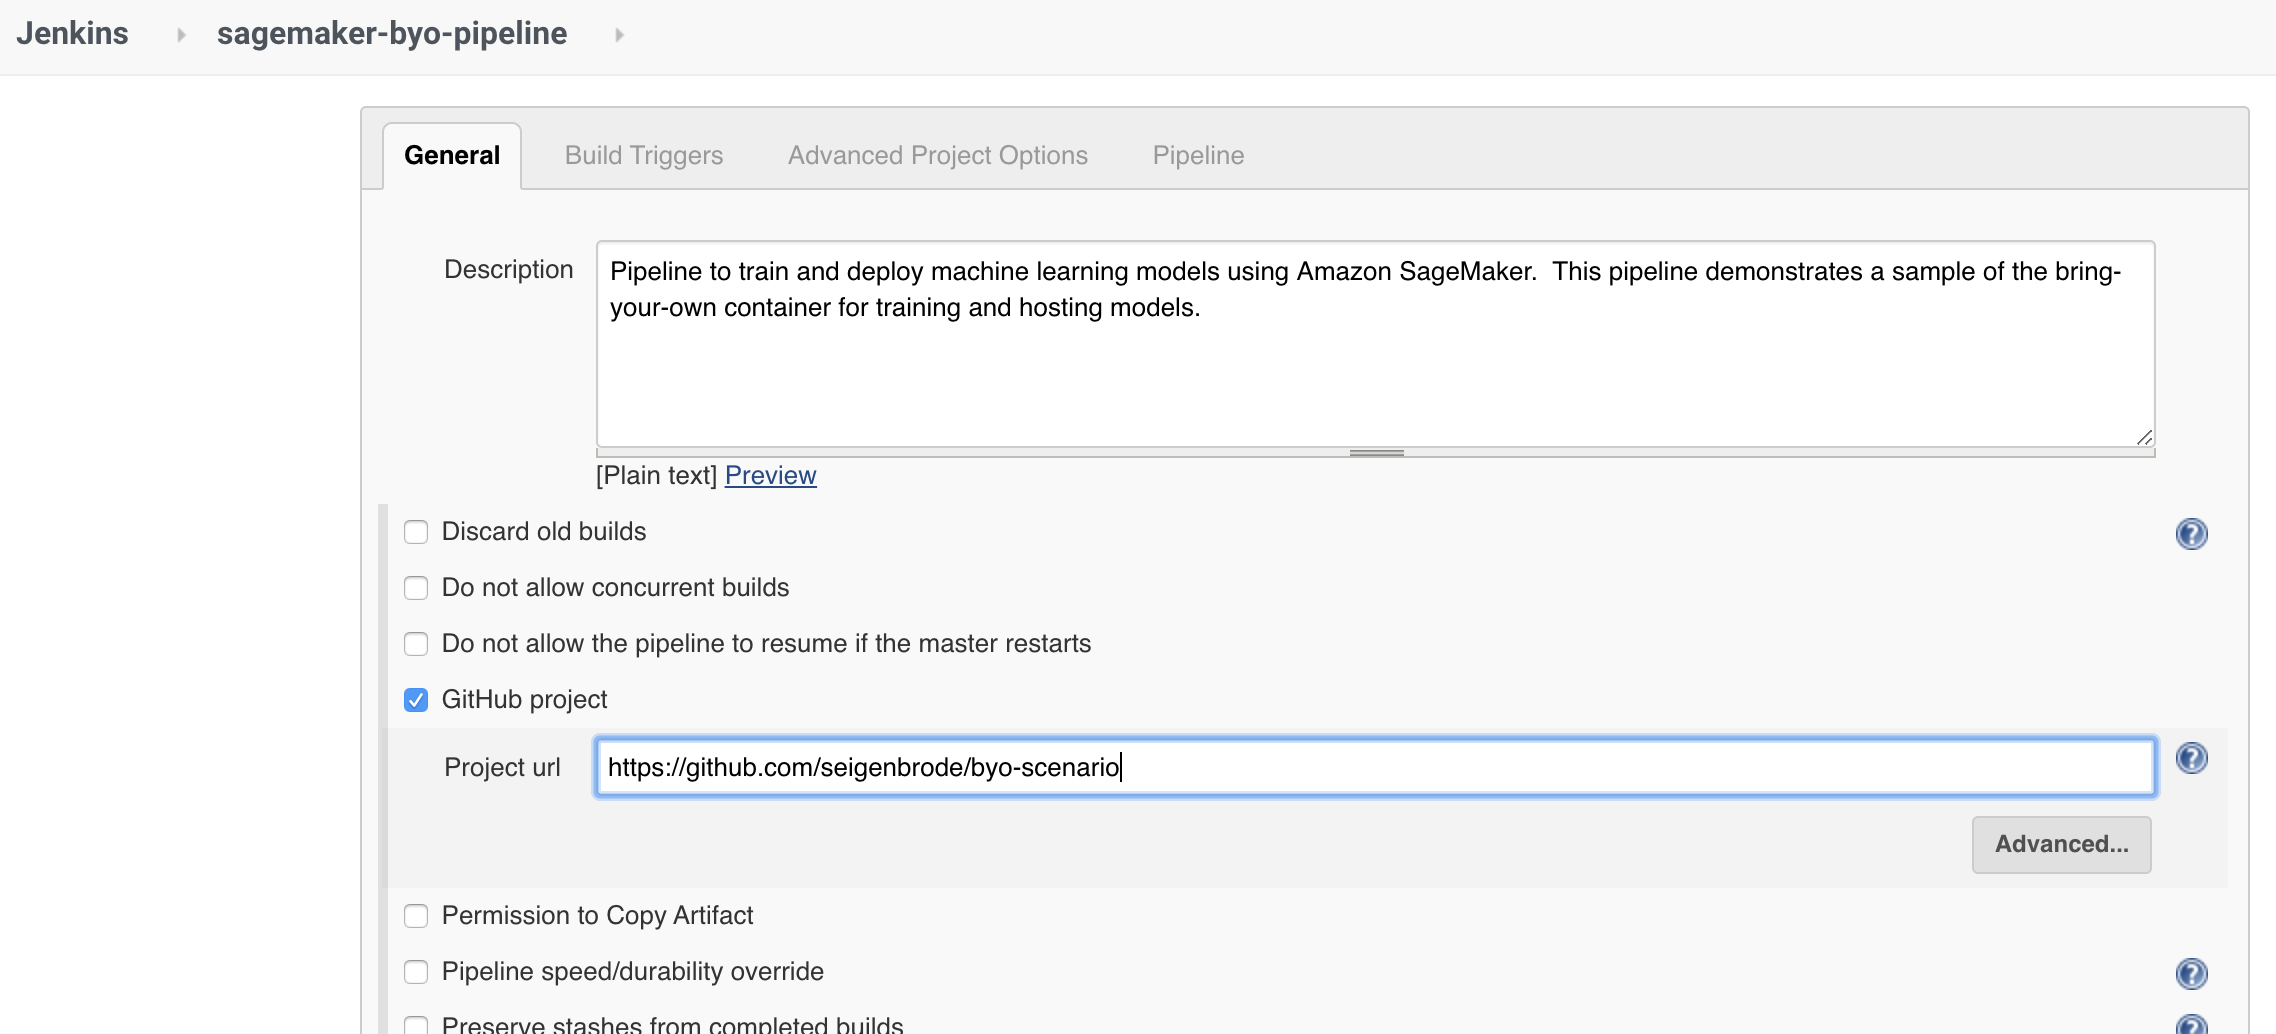
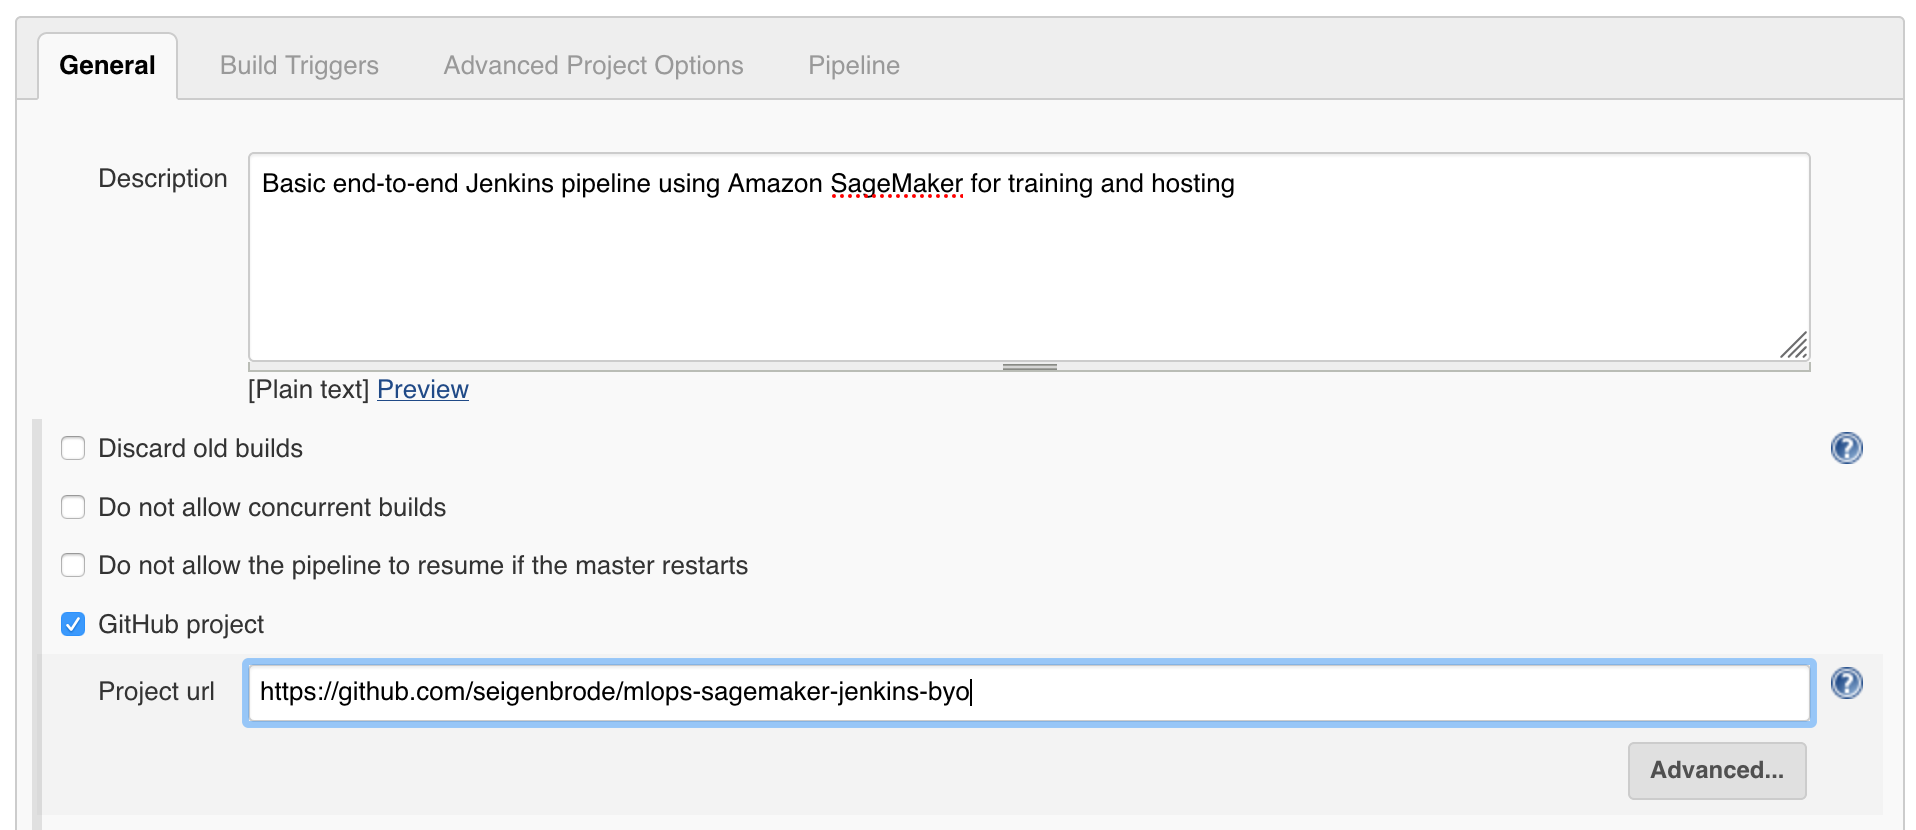
Updated README

Changed region(s): [[0.0, 0.0, 1.0, 1.0], [0.154, 0.9337, 0.4003, 1.0]]

diff --git a/README.md b/README.md
@@ -3,7 +3,9 @@
 In this workshop, we will focus on building a pipeline to train and deploy a model using Amazon SageMaker training instances and hosting on persistent Sagemaker endpoint instance(s).  The orchestration of the training and deployment will be done through [Jenkins](https://www.jenkins.io/).  
 
 
-Applying DevOps practices to Machine Learning (ML) workloads is a fundamental practice to ensure machine learning workloads are deployed using a consistent methodology with traceability, consistency, governance and quality gates. MLOps involves applying practices such as CI/CD,Continuous Monitoring, and Feedback Loops to the Machine Learning Development Lifecycle. This workshop will focus primarily on setting up a base deployment pipeline in Jenkins.  The expectation would be to continue to iterate on a base pipeline incorporating more quality checks and pipeline features including the consideration for a data worflow pipeline.  One component that we often see in a pipeline or between the hand-off of model build and model deploy activities is a model registry.   That is not in scope for this base pipeline but should be considered as you iterate on your pipeline.  
+Applying DevOps practices to Machine Learning (ML) workloads is a fundamental practice to ensure machine learning workloads are deployed using a consistent methodology with traceability, consistency, governance and quality gates. MLOps involves applying practices such as CI/CD,Continuous Monitoring, and Feedback Loops to the Machine Learning Development Lifecycle. 
+
+This workshop will focus primarily on setting up a base deployment pipeline in Jenkins.  The expectation would be to continue to iterate on a base pipeline incorporating more quality checks and pipeline features including the consideration for a data worflow pipeline.  One component that we often see in a pipeline or between the hand-off of model build and model deploy activities is a model registry.   That is not in scope for this base pipeline but should be considered as you iterate on your pipeline.  
 
  There is no one-size-fits-all model for creating a pipeline; however, the same general concepts explored in this lab can be applied and extended across various services or tooling to meet the same end result.  
 
@@ -51,15 +53,15 @@ The architecture used for the pipeline steps is shown below:
 
 ## Lab Overview
 
-This lab is based on the [scikit_bring_your_own](https://github.com/awslabs/amazon-sagemaker-examples/blob/master/advanced_functionality/scikit_bring_your_own/scikit_bring_your_own.ipynb) SageMaker example notebook.  Please reference the notebook for detailed description on the use case as well as the custom code for training, inference, and creating the docker container for use with SageMaker.  Although Amazon SageMaker now has native integrations for [Scikit](https://aws.amazon.com/blogs/machine-learning/amazon-sagemaker-adds-scikit-learn-support/), this notebook example does not rely on those integrations so is representative of any BYO* use case.  
+This lab is based on the [scikit_bring_your_own](https://github.com/awslabs/amazon-sagemaker-examples/blob/master/advanced_functionality/scikit_bring_your_own/scikit_bring_your_own.ipynb) SageMaker example notebook.  Please reference the notebook for detailed description on the use case as well as the custom code for training, inference, and creating the docker container for use with SageMaker.  
+
+Although Amazon SageMaker now has native integrations for [Scikit](https://aws.amazon.com/blogs/machine-learning/amazon-sagemaker-adds-scikit-learn-support/), this notebook example does not rely on those integrations so is representative of any BYO* use case.  
 
 Using the same code (with some minor modifications) from the SageMaker example notebook, we will utilize this GitHub repository as our source repository and our SCM into our Jenkins pipeline. 
 
 * *Optional: You can also choose to fork this repository if you want to modify code as part of your pipeline experiments. If you fork this repository, please ensure you update github configuration references within the lab* 
 
-This lab will walk you through the steps required to:
-
-• Setup a base pipeline responsible for orchestration of workflow to build and deploy custom ML models to target environments
+This lab will walk you through the steps required to setup a base pipeline responsible for orchestration of workflow to build and deploy custom ML models to target environments
 
 For this lab, we will perform a lot of steps manually in AWS that would typically be performed through Infrastructure-as-Code using a service like [CloudFormation](https://aws.amazon.com/cloudformation/). For the purposes of the lab, we will go step-by-step on the console so attendees become more familiar with expected inputs and artifacts part of a ML deployment pipeline.  
 
@@ -73,7 +75,7 @@ The steps below are included for the setup of AWS resources we will be using in 
 
 ## Step 1: Create Elastic Container Registry (ECR)
 
-In this workshop, we are using Jenkins as the Docker build server; however, you can also choose to use a secondary build environment such as [AWS Code Build](https://aws.amazon.com/codebuild) as a managed build environment that also integrates with other orchestration tools such as Jenkins. Below we are creating an Elastic Container Registry (ECR) where we will push our built docker images.   
+In this workshop, we are using Jenkins as the Docker build server; however, you can also choose to use a secondary build environment such as [AWS Code Build](https://aws.amazon.com/codebuild) as a managed build environment that also integrates with other orchestration tools such as Jenkins. Below we are creating an Elastic Container Registry (ECR) where we will push our built docker images. This images we push to this registry will become input container images used for our SageMaker training and deployment.   
 
 1) Login to the AWS Account provided
 
@@ -91,6 +93,7 @@ In this workshop, we are using Jenkins as the Docker build server; however, you 
 
 5) Click **Create repository**
 6) Confirm your repository is in the list of repositories
+7) You will need your repository URI in a later step so copy that URI for later. 
 
 ## Step 2: Create Model Artifact Repository
 
@@ -129,7 +132,7 @@ Create the IAM Role we will use for executing SageMaker calls from our Jenkins p
 
 8) Click **Create role**
 
-9) You will receive a notice the role has been created, click on the link and make sure grab the arn for the role we just created as we will use it later. 
+9) You will receive a notice the role has been created, click on the link to the role and make sure grab the arn for the role we just created as we will use it later. 
 
 ![BYO Workshop Setup](images/SageMaker-IAM.png)
 
@@ -191,7 +194,7 @@ In this step, we will create a new pipeline that we'll use to:
 
 * **Description:** Enter a description for the pipeline
 
-* Select **GitHub project** & Enter the following project url: https://github.com/seigenbrode/byo-scenario
+* Select **GitHub project** & Enter the following project url: https://github.com/seigenbrode/mlops-sagemaker-jenkins-byo
 
 
 ![BYO Workshop Setup](images/Jenkins-NewItem-1.png)
@@ -212,6 +215,8 @@ In this step, we will create a new pipeline that we'll use to:
        - **Name:** LAMBDA_EXECUTION_ROLE_TEST
        - **Default Value:** arn:aws:iam::*<InsertAccount#>*:role/MLOps-Jenkins-LambdaExecution
 
+       *Tip: Your account number can be found in the ECRURI above*
+
    * Parameter #3: SageMaker Execution Role 
        - **Type:** String
        - **Name:** SAGEMAKER_EXECUTION_ROLE_TEST
@@ -227,27 +232,22 @@ In this step, we will create a new pipeline that we'll use to:
        - **Name:** SAGEMAKER_TRAINING_JOB
        - **Default Value:** scikit-byo-*yourinitials*
 
-    * Parameter #6: Lambda Function - Training Status 
-       - **Type:** String
-       - **Name:** LAMBDA_CHECK_STATUS_TRAINING
-       - **Default Value:** MLOps-CheckTrainingStatus
-
-    * Parameter #7: S3 Bucket w/ Training Data
+    * Parameter #6: S3 Bucket w/ Training Data
        - **Type:** String
        - **Name:** S3_TRAIN_DATA
        - **Default Value:** s3://0.model-training-data/train/train.csv     
 
-    * Parameter #8: S3 Bucket w/ Training Data
+    * Parameter #7: S3 Bucket w/ Training Data
        - **Type:** String
        - **Name:** S3_TEST_DATA
        - **Default Value:** 0.model-training-data    
 
-    * Parameter #9: Lambda Function - Smoke Test
+    * Parameter #8: Lambda Function - Smoke Test
        - **Type:** String
        - **Name:** LAMBDA_EVALUATE_MODEL
        - **Default Value:** MLOps-InvokeEndpoint-scikitbyo
 
-   * Parameter #10: Default Docker Environment
+   * Parameter #9: Default Docker Environment
        - **Type:** String
        - **Name:** JENKINSHOME
        - **Default Value:** /bitnami/jenkins/jenkins_home/.docker
@@ -263,7 +263,9 @@ In this step, we will create a new pipeline that we'll use to:
 
    * **SCM:** Select **Git** from dropdown
 
-   * **Repository URL:** https://github.com/seigenbrode/byo-scenario
+   * **Repository URL:** https://github.com/seigenbrode/mlops-sagemaker-jenkins-byo
+
+   * **Branches to Build:** */main
 
    * **Credentials:** -none- *We are pulling from a public repo* 
 
@@ -271,7 +273,7 @@ In this step, we will create a new pipeline that we'll use to:
 
 7) Leave all other values default and click **Save**
 
-We are now ready to trigger our pipeline.  But first, we need to explore the purpose of Jenkinsfile.  Jenkins allows for many types of pipelines such as free style projects, pipelines (declarative / scripted), and external jobs.  In our original setup we selected [Pipeline](https://www.jenkins.io/doc/book/pipeline/getting-started/).  Our Git Repository also has a file named *Jenksfile* which contains the scripted flow of stages and steps for our pipeline in Jenkin's declarative pipeline language.  
+We are now ready to trigger our pipeline.  But first, let's explore the purpose of Jenkinsfile.  Jenkins allows for many types of pipelines such as free style projects, pipelines (declarative / scripted), and external jobs.  In our original setup we selected [Pipeline](https://www.jenkins.io/doc/book/pipeline/getting-started/).  Our Git Repository also has a file named *Jenksfile* which contains the scripted flow of stages and steps for our pipeline in Jenkin's declarative pipeline language.  This is often referred to as pipeline-as-code as we can programmatically modify our pipelines and also ensure it remains under source control.
 
 ---
 
@@ -279,7 +281,7 @@ We are now ready to trigger our pipeline.  But first, we need to explore the pur
 
 In this step, we will execute the pipeline manually and then we will later demonstrate executing the pipeline automatically via a push to our connected Git Repository.  
 
-Jenkins allows for the abiliity to create additional pipeline triggers and embed step logic for more sophisticated pipelines.Another common trigger would be for retraining based on a schedule, data drift, or a PUT of new training data to S3. 
+Jenkins allows for the ability to create additional pipeline triggers and embed step logic for more sophisticated pipelines.Another common trigger would be for retraining based on a schedule, data drift, or a PUT of new training data to S3. 
 
 1. Let's trigger the first execution of our pipeline. While you're in the Jenkins Portal, select the pipeline you created above:  
 
@@ -303,7 +305,7 @@ Jenkins allows for the abiliity to create additional pipeline triggers and embed
 ![BYO Workshop Setup](images/ECR-Repo-Push.png)
 
 
-6. When you're pipeline reaches the **TrainModel** stage, you can checkout more details about training because we are reaching out to utilize Amazon SageMaker training instances during our training.  Go To [Amazon SageMaker Training Jobs](https://console.aws.amazon.com/sagemaker/home?region=us-east-1#/jobs).  You can click on your job and review the details of your training job, check out the monitoring metrics.  
+6. When your pipeline reaches the **TrainModel** stage, you can checkout more details about your model training within SageMaker.  While we use Jenkins to orchestrate the kickoff of our training, we are still utilizing Amazon SageMaker training features &  instances for this step.  Go To [Amazon SageMaker Training Jobs](https://console.aws.amazon.com/sagemaker/home?region=us-east-1#/jobs).  You can click on your job and review the details of your training job as well as check out the system monitoring metrics.  
 
 7. When the pipeline has completed the **TrainStatus** stage, the model has been trained and you will be able to find your deployable model artifact in the S3 bucket we created earlier.  Go To [S3](https://s3.console.aws.amazon.com/s3/home?region=us-east-1) and find your bucket to view your model artifact: *yourinitials*-jenkins-scitkitbyo-modelartifact
 
